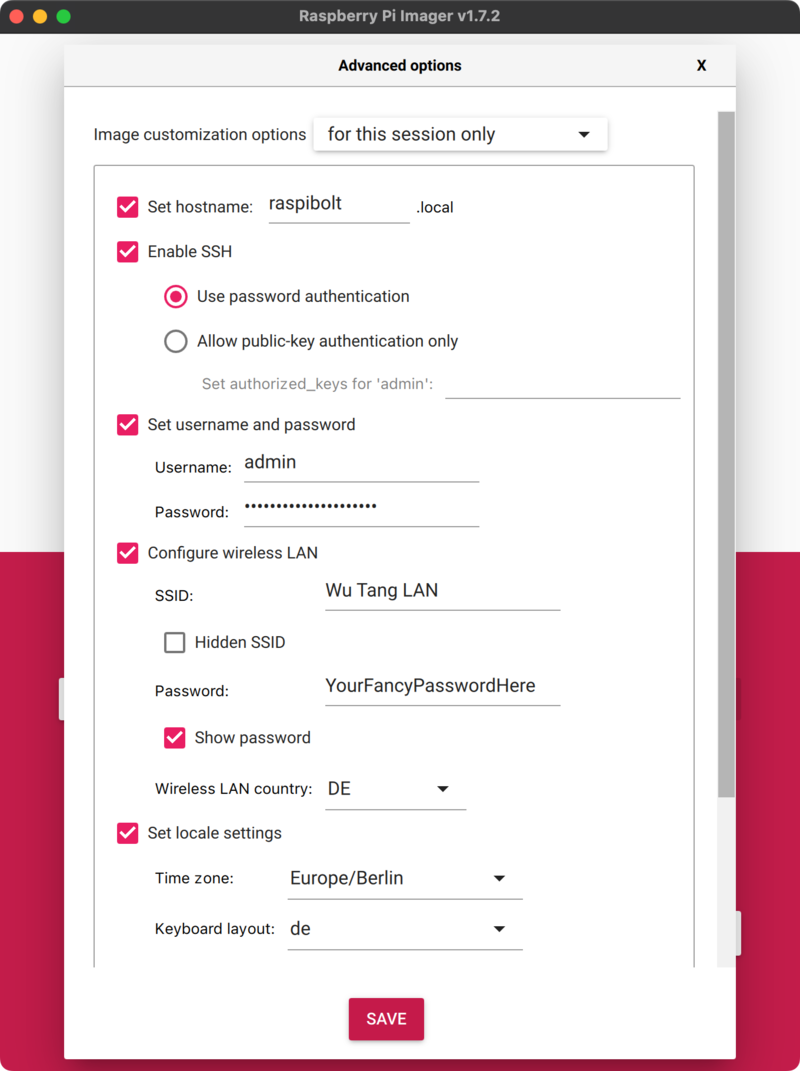
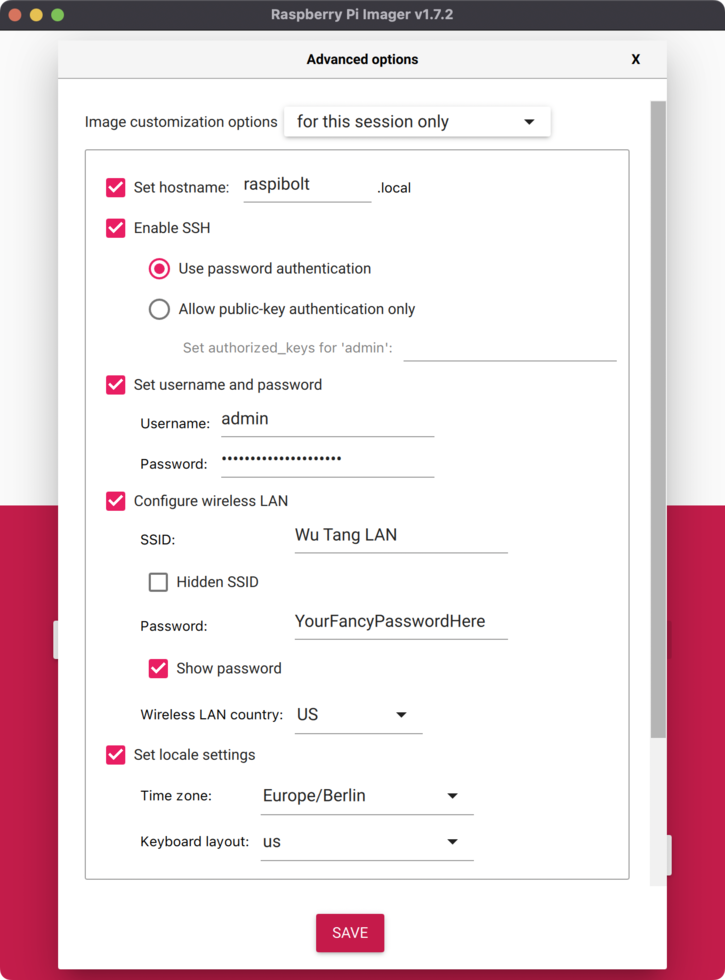
Fixed country code in screenshot, improved wording

diff --git a/guide/raspberry-pi/operating-system.md b/guide/raspberry-pi/operating-system.md
@@ -61,7 +61,7 @@ Configure the advanced options as follows:
   This will create the user `admin` which we will use primarily in this guide, making it more universal.
 
 * **Configure wifi**: if you'll run the RaspiBolt connected to your wireless network, simply enter the wifi name ("SSID") and password.
-  Also change "Wifi country" to the two-letter [ISO2 code](https://www.iso.org/obp/ui/#search){:target="_blank"} of your country (e.g., `DE`).
+  Also change "Wifi country" to the two-letter [ISO2 code](https://www.iso.org/obp/ui/#search){:target="_blank"} of your country (e.g., `US`).
 
   If you'll connect your RaspiBolt with a network cable, simply skip this setting.
 

diff --git a/guide/raspberry-pi/system-configuration.md b/guide/raspberry-pi/system-configuration.md
@@ -33,7 +33,7 @@ We will use the primary user "admin" which we already configured in the Raspberr
   $ ssh admin@raspibolt.local
   ```
 
-* You can exit an SSH session any time with
+* You can exit your session any time with
 
   ```sh
   $ exit
